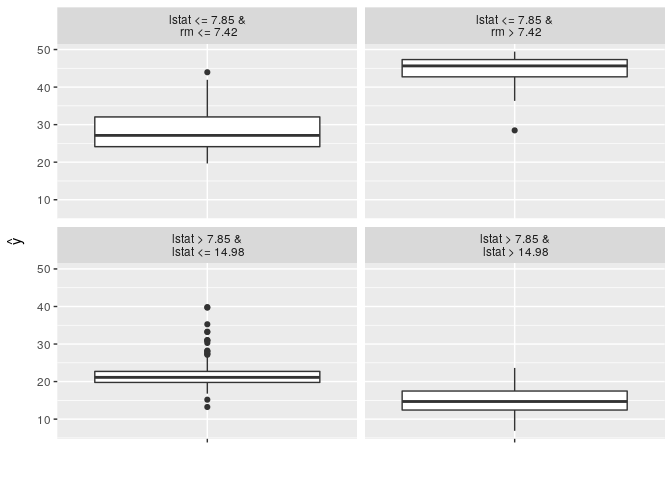
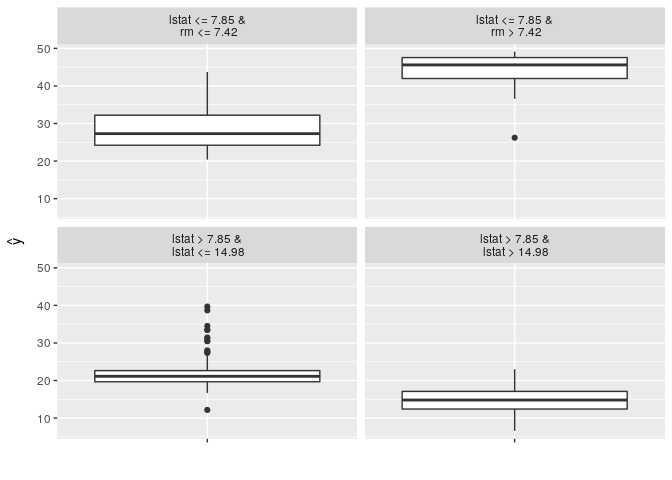
fixes namespace issues

diff --git a/README.md b/README.md
@@ -56,19 +56,19 @@ imp$results
 ```
 
     ##    feature original.error permutationError importance
-    ## 1    lstat      0.9876488         4.233008   4.285945
-    ## 2       rm      0.9876488         3.712950   3.759383
-    ## 3      dis      0.9876488         1.656546   1.677263
-    ## 4     crim      0.9876488         1.653230   1.673904
-    ## 5      nox      0.9876488         1.637037   1.657509
-    ## 6  ptratio      0.9876488         1.580299   1.600061
-    ## 7    indus      0.9876488         1.468366   1.486728
-    ## 8      age      0.9876488         1.283689   1.299742
-    ## 9      tax      0.9876488         1.244533   1.260097
-    ## 10   black      0.9876488         1.238134   1.253618
-    ## 11     rad      0.9876488         1.109522   1.123398
-    ## 12      zn      0.9876488         1.092671   1.106336
-    ## 13    chas      0.9876488         1.014975   1.027668
+    ## 1    lstat       1.004678         4.235347   4.215628
+    ## 2       rm       1.004678         3.273892   3.258649
+    ## 3     crim       1.004678         1.731467   1.723405
+    ## 4  ptratio       1.004678         1.729005   1.720955
+    ## 5      nox       1.004678         1.661731   1.653994
+    ## 6      dis       1.004678         1.653906   1.646205
+    ## 7    indus       1.004678         1.608825   1.601335
+    ## 8      age       1.004678         1.378753   1.372334
+    ## 9      tax       1.004678         1.360375   1.354041
+    ## 10   black       1.004678         1.246488   1.240685
+    ## 11     rad       1.004678         1.161532   1.156124
+    ## 12      zn       1.004678         1.061880   1.056936
+    ## 13    chas       1.004678         1.034714   1.029897
 
 ### Let"s build a single tree from the randomForest predictions! (Tree surrogate)
 
@@ -105,9 +105,9 @@ lime.explain$results
 ```
 
     ##               beta x.recoded    effect x.original feature feature.value
-    ## rm       4.4692948     6.575 29.385614      6.575      rm      rm=6.575
-    ## ptratio -0.5477636    15.300 -8.380784       15.3 ptratio  ptratio=15.3
-    ## lstat   -0.4313727     4.980 -2.148236       4.98   lstat    lstat=4.98
+    ## rm       4.2445268     6.575 27.907764      6.575      rm      rm=6.575
+    ## ptratio -0.5224666    15.300 -7.993738       15.3 ptratio  ptratio=15.3
+    ## lstat   -0.4287899     4.980 -2.135374       4.98   lstat    lstat=4.98
 
 ``` r
 plot(lime.explain)
@@ -122,20 +122,20 @@ shapley.explain = Shapley$new(model, x.interest = X[1, ])
 shapley.explain$results
 ```
 
-    ##    feature          phi      phi.var feature.value
-    ## 1      age -0.173130708  0.253650085  crim=0.00632
-    ## 2    black  0.054638212  0.233187939         zn=18
-    ## 3     chas -0.003419667  0.005878521    indus=2.31
-    ## 4     crim -0.466446658  1.823447917        chas=0
-    ## 5      dis -0.256641342  1.762279777     nox=0.538
-    ## 6    indus  0.433310952  0.751072303      rm=6.575
-    ## 7    lstat  2.987843211 19.500815533      age=65.2
-    ## 8      nox -0.270343503  0.759897094      dis=4.09
-    ## 9  ptratio  0.581080286  0.615308440         rad=1
-    ## 10     rad -0.195727206  0.098238247       tax=296
-    ## 11      rm -0.879252628 18.024706110  ptratio=15.3
-    ## 12     tax -0.057217190  0.269396266   black=396.9
-    ## 13      zn  0.202248909  0.134069091    lstat=4.98
+    ##    feature           phi      phi.var feature.value
+    ## 1      age -0.0850019791  0.333944689  crim=0.00632
+    ## 2    black -0.0008046753  0.267453217         zn=18
+    ## 3     chas -0.0240226667  0.009907358    indus=2.31
+    ## 4     crim -0.0723403620  1.236298269        chas=0
+    ## 5      dis -0.1753825842  1.089173160     nox=0.538
+    ## 6    indus  0.7402716277  1.556442963      rm=6.575
+    ## 7    lstat  3.7001500745 19.387675029      age=65.2
+    ## 8      nox -0.1974995303  0.727310327      dis=4.09
+    ## 9  ptratio  0.7285225750  1.220922649         rad=1
+    ## 10     rad -0.4722923333  0.407054214       tax=296
+    ## 11      rm -0.0752455000  7.788278183  ptratio=15.3
+    ## 12     tax -0.1853100000  0.393279176   black=396.9
+    ## 13      zn -0.0950710000  0.042044428    lstat=4.98
 
 ``` r
 plot(shapley.explain)
